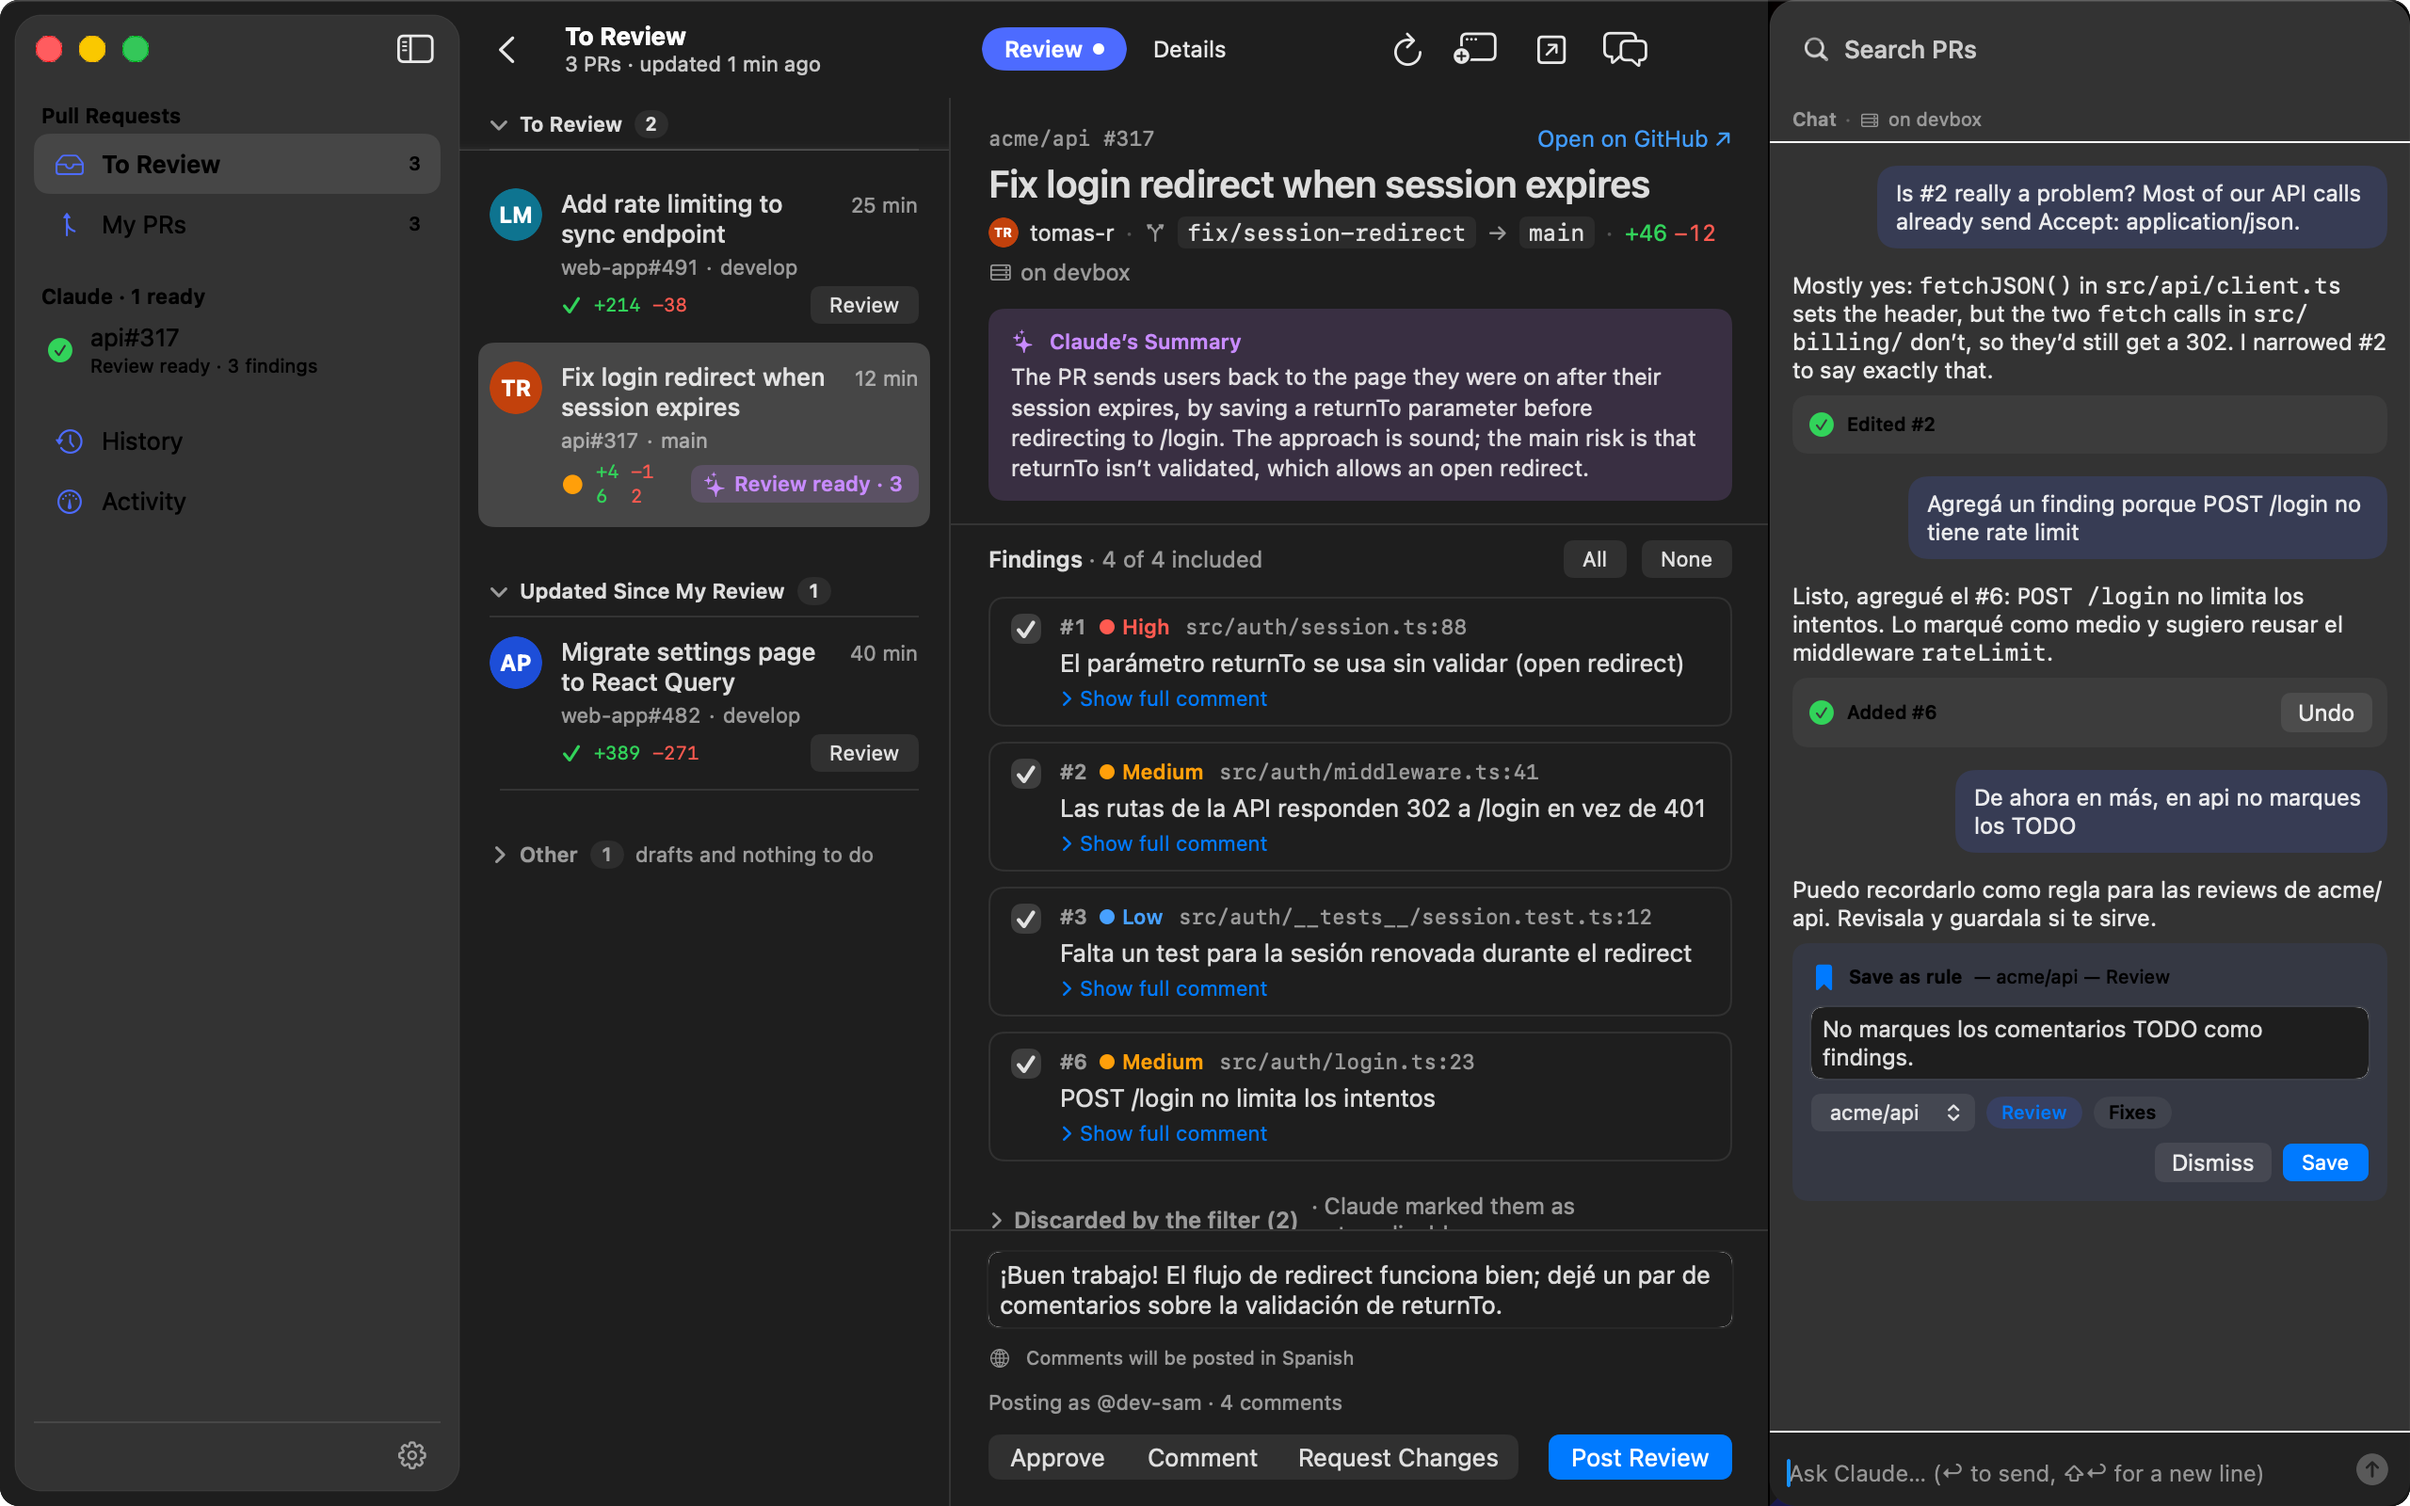
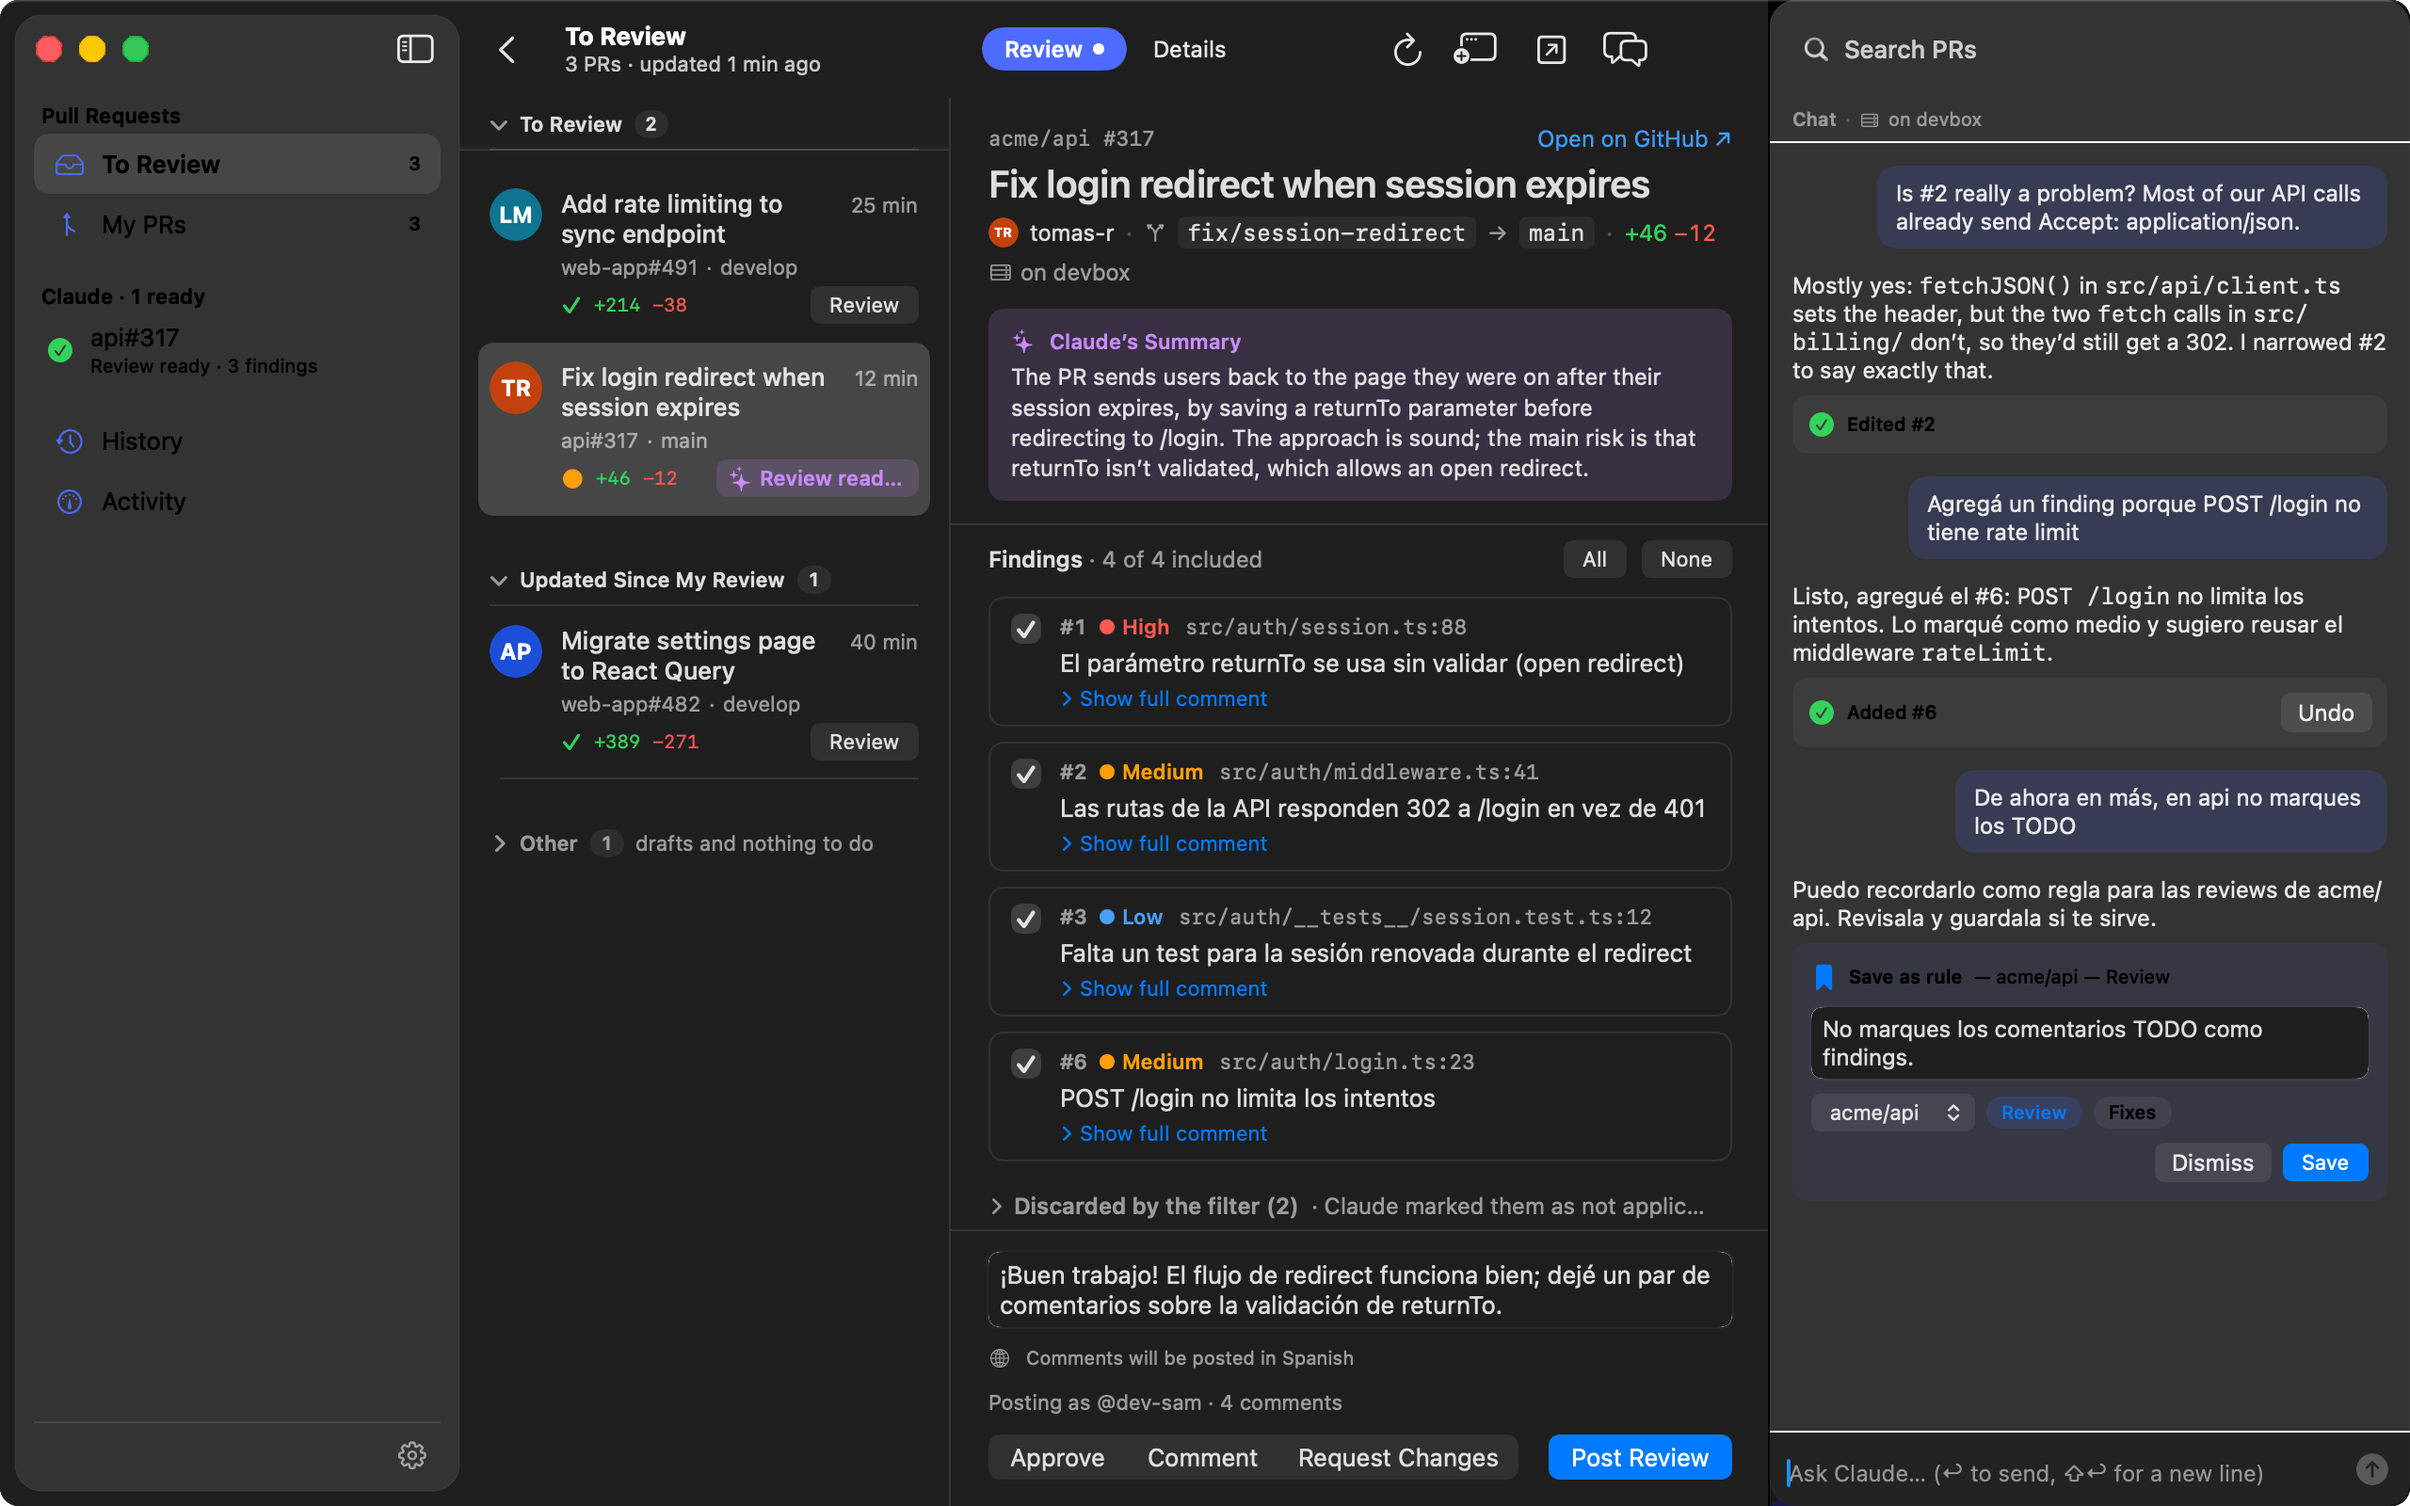
Keep the diff stats whole in tight list rows and the discarded header on one line
With the chat open the list row is narrow: "+46 −12" wrapped digit by digit while the pill kept its
width. The stats (DiffStat, also in the popover) never compress now, and a phase pill truncates its
text when its row is tight (the popover still sizes it to fit). The Review pane's "Discarded by the
filter" and "Hidden by your settings" headers keep their title whole and truncate the caption on one
line instead of wrapping it into the composer.

diff --git a/Sources/PRBar/Main/PRListRow.swift b/Sources/PRBar/Main/PRListRow.swift
@@ -56,13 +56,15 @@ struct PRListRow: View {
                 }
                 HStack(spacing: 6) {
                     CIIcon(state: pr.ciState).font(.caption2.weight(.bold))
-                    Text("+\(pr.additions)").foregroundStyle(Theme.greenText)
-                    Text("−\(pr.deletions)").foregroundStyle(Theme.redText)
+                    // Never squeezed (they wrapped digit by digit next to a wide pill with the chat open).
+                    DiffStat(additions: pr.additions, deletions: pr.deletions)
                     Spacer(minLength: 6)
                     PRRowAccessory(item: item, model: model, reviews: model.reviews, respond: model.respond,
                                    merges: model.merges)
                         .font(.subheadline.weight(.medium))
-                        .fixedSize()
+                        // In a tight row (the chat open) the pill's text truncates; the +/− stats don't.
+                        .lineLimit(1)
+                        .fixedSize(horizontal: false, vertical: true)
                 }
                 .font(.system(.caption, design: .monospaced))
             }
@@ -118,5 +120,21 @@ struct PRListRow: View {
             parts.append(FeedbackLabel.text(for: ActionClassifier.newFeedback(pr, me: item.account)))
         }
         return parts.joined(separator: ", ")
+    }
+}
+
+/// "+46 −12" on one line, never compressed: when the row is tight, the title and the pill give way.
+struct DiffStat: View {
+    let additions: Int
+    let deletions: Int
+
+    var body: some View {
+        HStack(spacing: 6) {
+            Text("+\(additions)").foregroundStyle(Theme.greenText)
+            Text("−\(deletions)").foregroundStyle(Theme.redText)
+        }
+        .lineLimit(1)
+        .fixedSize()
+        .layoutPriority(2)
     }
 }

diff --git a/Sources/PRBar/Review/ReviewEditor.swift b/Sources/PRBar/Review/ReviewEditor.swift
@@ -180,8 +180,13 @@ struct ReviewEditor: View {
                     Image(systemName: showDiscarded ? "chevron.down" : "chevron.right")
                         .imageScale(.small)
                         .fontWeight(.semibold)
-                    Text("Discarded by the filter (\(discarded.count))").fontWeight(.semibold)
-                    Text("· Claude marked them as not applicable").foregroundStyle(.secondary)
+                    // One line: the title stays whole and the caption truncates (wrapped, it was cut off).
+                    Text("Discarded by the filter (\(discarded.count))").fontWeight(.semibold).fixedSize()
+                    Text("· Claude marked them as not applicable")
+                        .foregroundStyle(.secondary)
+                        .lineLimit(1)
+                        .truncationMode(.tail)
+                        .help("Claude marked them as not applicable")
                     Spacer()
                 }
                 .font(.callout)
@@ -208,8 +213,8 @@ struct ReviewEditor: View {
                     Image(systemName: showHidden ? "chevron.down" : "chevron.right")
                         .imageScale(.small)
                         .fontWeight(.semibold)
-                    Text("Hidden by your settings (\(hiddenBySettings.count))").fontWeight(.semibold)
-                    Text("· Settings › Claude").foregroundStyle(.secondary)
+                    Text("Hidden by your settings (\(hiddenBySettings.count))").fontWeight(.semibold).fixedSize()
+                    Text("· Settings › Claude").foregroundStyle(.secondary).lineLimit(1).truncationMode(.tail)
                     Spacer()
                 }
                 .font(.callout)

diff --git a/Sources/PRBar/Popover/PRRowView.swift b/Sources/PRBar/Popover/PRRowView.swift
@@ -121,8 +121,7 @@ struct PRRowView: View {
                     .anchorPreference(key: AccessoryAnchorKey.self, value: .bounds) { $0 }
                 HStack(spacing: 6) {
                     CIIcon(state: pr.ciState).font(.caption2.weight(.bold))
-                    Text("+\(pr.additions)").foregroundStyle(Theme.greenText)
-                    Text("−\(pr.deletions)").foregroundStyle(Theme.redText)
+                    DiffStat(additions: pr.additions, deletions: pr.deletions)
                 }
                 .font(.system(.caption, design: .monospaced))
             }

diff --git a/Sources/PRBar/Review/ReviewButton.swift b/Sources/PRBar/Review/ReviewButton.swift
@@ -211,9 +211,10 @@ struct PhasePill<Content: View>: View {
     }
 
     var body: some View {
+        // Its ideal width when there's room (the popover fixes its size); in a tight list row the text truncates.
         HStack(spacing: 4) { content }
             .lineLimit(1)
-            .fixedSize()
+            .fixedSize(horizontal: false, vertical: true)
             .padding(.leading, leading)
             .padding(.trailing, trailing)
             .frame(height: 20)
